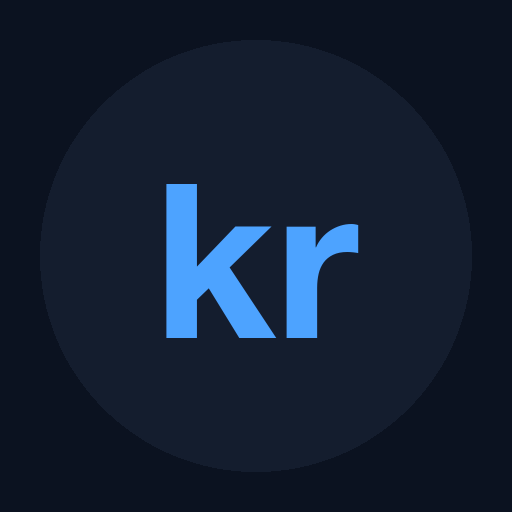
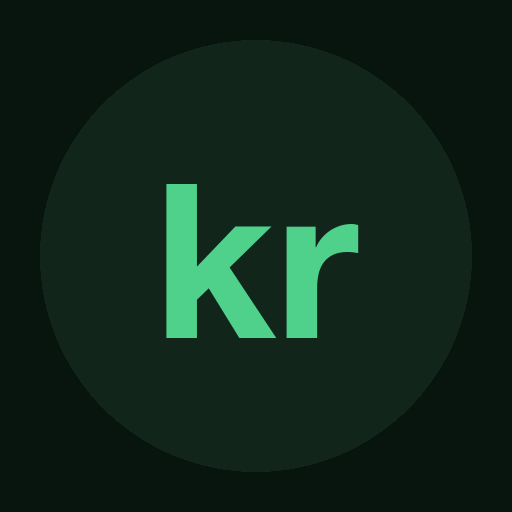
Zelený tón, menší haléře, autofokus vstupu, uvozovky ve věnování

Changed region(s): [[0.3125, 0.3438, 0.7188, 0.6875]]

diff --git a/index.html b/index.html
@@ -4,13 +4,13 @@
 <meta charset="utf-8">
 <meta name="viewport" content="width=device-width, initial-scale=1, viewport-fit=cover">
 <title>Koruny — ISK na CZK</title>
-<meta name="theme-color" content="#0b1220">
+<meta name="theme-color" content="#08150f">
 <link rel="manifest" href="manifest.json">
 <link rel="apple-touch-icon" href="icon-192.png">
 <meta name="apple-mobile-web-app-capable" content="yes">
 <meta name="apple-mobile-web-app-status-bar-style" content="black-translucent">
 <style>
-  :root { --bg:#0b1220; --card:#141d2e; --fg:#f2f5fa; --muted:#8b9ab3; --accent:#4da3ff; }
+  :root { --bg:#08150f; --card:#11251a; --fg:#eef6f0; --muted:#84a493; --accent:#4fd18b; }
   * { box-sizing:border-box; }
   body {
     margin:0; min-height:100vh; padding:env(safe-area-inset-top) 20px env(safe-area-inset-bottom);
@@ -26,12 +26,13 @@
     font:700 40px/1.1 inherit; padding:0; outline:none; -moz-appearance:textfield;
   }
   input::-webkit-outer-spin-button, input::-webkit-inner-spin-button { -webkit-appearance:none; }
-  input::placeholder { color:#3c4a63; }
-  .out { margin-top:10px; padding-top:12px; border-top:1px solid #24314a; font-size:32px; font-weight:700; color:var(--accent); }
+  input::placeholder { color:#31533f; }
+  .out { margin-top:10px; padding-top:12px; border-top:1px solid #1d3a2a; font-size:32px; font-weight:700; color:var(--accent); }
   .rev input { font-size:22px; }
   .rev .out { font-size:19px; margin-top:8px; padding-top:9px; }
+  .dec { font-size:.62em; opacity:.75; }
   #rate { margin:0; text-align:center; font-size:12px; color:var(--muted); }
-  footer { margin-top:6px; text-align:center; font-size:11px; line-height:1.5; color:#5d6b85; }
+  footer { margin-top:6px; text-align:center; font-size:11px; line-height:1.5; color:#5e7d6b; }
 </style>
 </head>
 <body>
@@ -51,7 +52,7 @@
 
   <p id="rate">Načítám kurz…</p>
 
-  <footer>Věnováno Míše, pro kterou je prý příliš složité<br>napsat i XY ISK to CZK do Googlu.</footer>
+  <footer>Věnováno Míše, pro kterou je prý příliš složité<br>napsat i „XY ISK to CZK“ do Googlu.</footer>
 
 <script>
 const API = 'https://api.frankfurter.dev/v1/latest?base=ISK&symbols=CZK';
@@ -63,11 +64,16 @@ const $ = id => document.getElementById(id);
 // Bere tečku i čárku, ignoruje mezery (i pevné) v tisících.
 const parse = v => parseFloat(v.replace(/[\s\u00a0]/g, '').replace(',', '.')) || 0;
 const num = (n, d) => n.toLocaleString('cs-CZ', { minimumFractionDigits: d, maximumFractionDigits: d });
+// Celá část zůstává velká, haléře jdou menším písmem.
+const split = (n, unit) => {
+  const [w, dec] = num(n, 2).split(',');
+  return `${w}<span class="dec">,${dec} ${unit}</span>`;
+};
 
 function render() {
   const isk = parse($('isk').value);
   const czk = parse($('czkIn').value);
-  $('czk').textContent = num(isk * rate.value, 2) + ' Kč';
+  $('czk').innerHTML = split(isk * rate.value, 'Kč');
   $('iskOut').textContent = num(czk / rate.value, 0) + ' ISK';
   const d = new Date(rate.date).toLocaleDateString('cs-CZ');
   $('rate').textContent = `1 ISK = ${num(rate.value, 5)} Kč · ECB ${d}` + (rate.cached ? ' · offline' : '');
@@ -93,6 +99,12 @@ function clean(e) {
 }
 $('isk').addEventListener('input', clean);
 $('czkIn').addEventListener('input', clean);
+// Android klávesnici otevře rovnou; iOS ji bez dotyku nepovolí, tak stačí první tapnutí kamkoliv.
+const isk = $('isk');
+isk.focus();
+addEventListener('pointerdown', e => {
+  if (e.target.tagName !== 'INPUT') { e.preventDefault(); isk.focus(); }
+}, { once: true });
 if ('serviceWorker' in navigator) navigator.serviceWorker.register('sw.js');
 </script>
 </body>

diff --git a/sw.js b/sw.js
@@ -1,4 +1,4 @@
-const CACHE = 'koruny-v2';
+const CACHE = 'koruny-v3';
 const SHELL = ['./', './index.html', './manifest.json', './icon-192.png', './icon-512.png'];
 
 self.addEventListener('install', e => {
